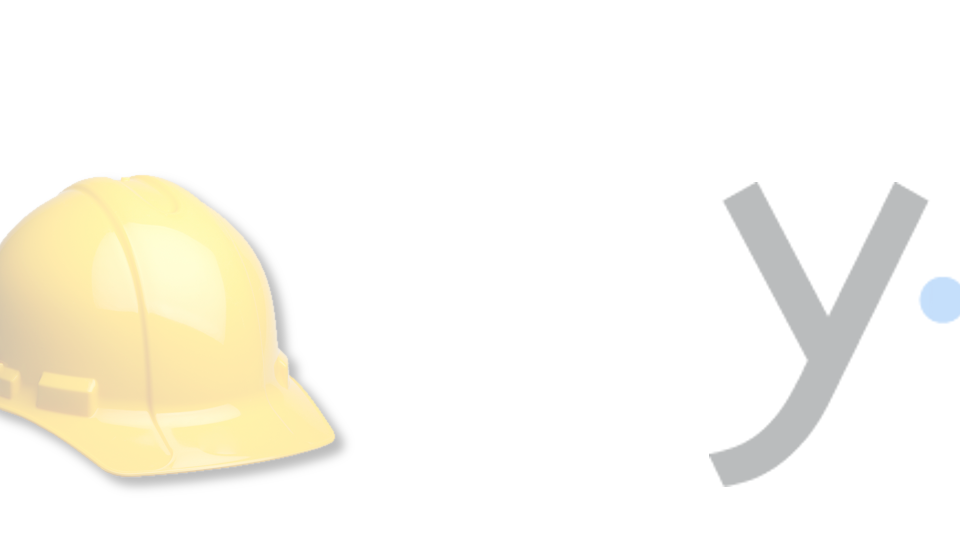
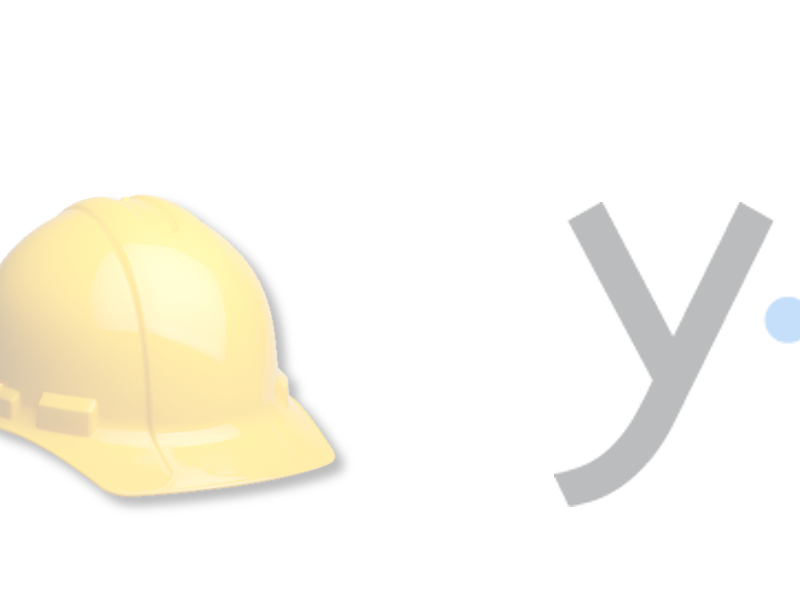
buildroot-yocto-daily: change layout to 4:3

diff --git a/buildroot-yocto-daily/buildroot-yocto-daily.tex b/buildroot-yocto-daily/buildroot-yocto-daily.tex
@@ -1,4 +1,4 @@
-\documentclass[xetex,table,aspectratio=169]{beamer}
+\documentclass[xetex,table,aspectratio=43]{beamer}
 
 \usepackage[autostyle]{csquotes}
 \usepackage{hyperref}
@@ -161,7 +161,7 @@
   \begin{itemize}
   \item Smooth start: find a defconfig for a similar board
     \begin{itemize}
-    \item \texttt{make list-defconfigs \ \ \ \ \ \ \ \ \# minimal booting configs}
+    \item \texttt{make list-defconfigs \ \ \ \# minimal booting configs}
     \item \texttt{make similar\_board\_defconfig}
     \end{itemize}
   \item Or from scratch
@@ -178,13 +178,16 @@
 \end{frame}
 
 \begin{frame}
-  \center\includegraphics[height=1.0\textheight]{images/br-menuconfig-kernel.png}
+  \center\includegraphics[width=1.0\textwidth]{images/br-menuconfig-kernel.png}
 \end{frame}
 
 \bg{yocto}
 \begin{frame}[fragile]{Configure}
   \begin{itemize}
-  \item {\tt . oe-init-build-env \ \ \ \ \ \# creates and enters the build/ dir}
+  \item {\tt . oe-init-build-env}\\
+    \begin{itemize}
+      \item Creates and enters the {\tt build/} dir
+    \end{itemize}
   \item Smooth start: find a defconfig for a similar board
     \begin{itemize}
     \item {\tt ls conf/machine/} in your SoC vendor layer
@@ -218,7 +221,7 @@
 
 
 \begin{frame}{Building items}
-  \center\includegraphics[height=0.7\textheight]{images/dependencies2.pdf}
+  \center\includegraphics[width=0.9\textwidth]{images/dependencies2.pdf}
 \end{frame}
 
 
@@ -229,6 +232,7 @@
     (e.g. binutils, busybox, gcc, libxml2)
   \end{center}
 
+  \footnotesize
   \begin{columns}
     \column{0.5\textwidth}
     \begin{itemize}
@@ -255,8 +259,9 @@
     Each package requires several steps to be built
   \end{center}
 
+  \footnotesize
   \begin{columns}
-    \column{0.5\textwidth}
+    \column{0.52\textwidth}
     \begin{itemize}
     \item No formal name, usually called just {\em steps}
     \item {\tt source}, {\tt extract}, {\tt patch}, {\tt configure},
@@ -267,7 +272,7 @@
     \item {\tt make libxml2-configure host-binutils-build busybox}
     \end{itemize}
 
-    \column{0.5\textwidth}
+    \column{0.52\textwidth}
     \begin{itemize}
     \item Called {\em tasks}\\
       (often prefixed with {\tt do\_})
@@ -285,9 +290,9 @@
 \begin{frame}{Default steps/tasks}
   \begin{columns}
     \column{0.5\textwidth}
-    \center\includegraphics[height=0.95\textheight]{images/br-steps.pdf}
+    \center\includegraphics[height=0.75\textheight]{images/br-steps.pdf}
     \column{0.5\textwidth}
-  \center\includegraphics[height=0.95\textheight]{images/yocto-tasks.pdf}
+    \center\includegraphics[height=0.75\textheight]{images/yocto-tasks.pdf}
   \end{columns}
 \end{frame}
 
@@ -421,7 +426,7 @@
 
 \begin{frame}[fragile]{Buildroot: {\tt BR2\_EXTERNAL}}
   \begin{minted}[frame=single,autogobble,fontsize=\small]{shell-session}
-    $ make BR2_EXTERNAL=~/devel/myext:~/devel/myext2 menuconfig
+    $ make BR2_EXTERNAL=~/myext:~/myext2 menuconfig
   \end{minted}
 
   \begin{itemize}
@@ -650,6 +655,7 @@
 \end{frame}
 
 \begin{frame}{Tuning resource usage}
+  \scriptsize
   \begin{table}
     \begin{tabular}{ll}
       \toprule
@@ -791,7 +797,7 @@
   \item {\tt make graph-depends}
   \item Produces {\tt output/graphs/graph-depends.pdf}
   \end{itemize}
-  \center\includegraphics[height=0.75\textheight]{images/br-graph-depends.pdf}
+  \center\includegraphics[height=0.70\textheight]{images/br-graph-depends.pdf}
 \end{frame}
 
 \begin{frame}{Buildroot: {\tt graph-depends}}
@@ -802,7 +808,7 @@
   \item {\tt BR2\_GRAPH\_DEPS\_OPTS="--exclude=host" make avahi-graph-depends}
   \item Produces {\tt output/graphs/avahi-graph-depends.pdf}
   \end{itemize}
-  \center\includegraphics[height=0.65\textheight]{images/br-avahi-graph-depends.pdf}
+  \center\includegraphics[height=0.55\textheight]{images/br-avahi-graph-depends.pdf}
 \end{frame}
 
 \bg{yocto}
@@ -824,7 +830,7 @@
 
 \bg{br}
 \begin{frame}[fragile]{Buildroot: default output}
-  \begin{minted}[frame=single,autogobble,fontsize=\small]{shell-session}
+  \begin{minted}[frame=single,autogobble,fontsize=\footnotesize]{shell-session}
     $ make
     ...
     >>> host-e2fsprogs 1.44.2 Extracting
@@ -843,7 +849,7 @@
 \end{frame}
 
 \begin{frame}[fragile]{Buildroot: concise output}
-  \begin{minted}[frame=single,autogobble,fontsize=\small]{shell-session}
+  \begin{minted}[frame=single,autogobble,fontsize=\footnotesize]{shell-session}
     $ ./utils/brmake
     ...
     2018-10-06T16:15:58 >>> host-zlib  Patching
@@ -865,7 +871,7 @@
   \item The default output shows the current status, no logs
   \item Hides completed tasks
   \end{itemize}
-  \begin{minted}[frame=single,autogobble,fontsize=\footnotesize]{shell-session}
+  \begin{minted}[frame=single,autogobble,fontsize=\tiny]{shell-session}
     Currently  4 running tasks (119 of 2503)   4% |##                              |
     0: glibc-initial-2.27-r0 do_fetch (pid 5216)  38% |############        | 4.09M/s
     1: glibc-2.27-r0 do_fetch - 4s (pid 5261)
@@ -879,7 +885,7 @@
   \item To see the completed tasks:
   \item {\tt bitbake ... | cat}
   \end{itemize}
-  \begin{minted}[frame=single,autogobble,fontsize=\footnotesize]{shell-session}
+  \begin{minted}[frame=single,autogobble,fontsize=\tiny]{shell-session}
     NOTE: Running task 119 of 2645 (.../binutils/binutils-cross_2.30.bb:do_unpack)
     NOTE: Running task 232 of 2645 (virtual:native:...lzo/lzo_2.10.bb:do_compile)
     NOTE: recipe binutils-cross-arm-2.30-r0: task do_unpack: Started
@@ -898,7 +904,7 @@
   \item For each task a log file is saved
     \begin{itemize}
     \item in {\tt tmp/work/<TUPLE>/<RECIPE>/<VERSION>/temp/log.do\_<TASK>}
-    \item e.g. {\tt tmp/work/x86\_64-linux/gmp-native/6.1.2-r0/temp/log.do\_configure}
+    \item e.g. {\scriptsize\tt tmp/work/x86\_64-linux/gmp-native/6.1.2-r0/temp/log.do\_configure}
     \end{itemize}
   \item Or re-run the failed task with verbose output to see its
     output on your terminal
@@ -1062,6 +1068,7 @@
 \end{frame}
 
 \begin{frame}{Some system settings, side-by-side}
+  \footnotesize
   \begin{table}
     \begin{tabular}{ll}
       \toprule
@@ -1122,7 +1129,7 @@
 \end{frame}
 
 \begin{frame}{Configuring Kconfig-based packages}
-  \small
+  \scriptsize
   \begin{table}
     \begin{tabular}{lll}
       \toprule
@@ -1199,9 +1206,7 @@
 
 \bg{yocto}
 \begin{frame}[fragile]{Yocto: changing task code}
-  \begin{columns}
-    \column{0.5\textwidth}
-    \begin{minted}[autogobble,fontsize=\footnotesize]{bash}
+  \begin{minted}[frame=single,autogobble,fontsize=\footnotesize]{bash}
       do_conf_append() {
           echo CONFIG_ACS >>${D}/.config
       }
@@ -1209,23 +1214,21 @@
       do_install_prepend() {
           mkdir -p ${D}${bindir}
       }
-    \end{minted}
-    \column{0.5\textwidth}
+  \end{minted}
+
+  \begin{itemize}
+  \item Append or prepend code
+  \item Final task code =\\
+    concatenation of prepends + base + appends
     \begin{itemize}
-    \item Append or prepend code
-    \item Final task code = concatenation of prepends + base + appends
-      \begin{itemize}
-      \item Don't mix Bash and Python
-      \end{itemize}
+    \item Don't mix Bash and Python
     \end{itemize}
-  \end{columns}
+  \end{itemize}
 \end{frame}
 
 \bg{br}
 \begin{frame}[fragile]{Buildroot: changing task code}
-  \begin{columns}
-    \column{0.5\textwidth}
-    \begin{minted}[autogobble,fontsize=\footnotesize]{makefile}
+  \begin{minted}[frame=single,autogobble,fontsize=\footnotesize]{makefile}
       define FOO_ENABLE_ACS
           echo CONFIG_ACS >>$(@D)/.config
       endef
@@ -1235,13 +1238,13 @@
           mkdir -p $(TARGET_DIR)/bin
       endef
       FOO_PRE_INSTALL_HOOKS += FOO_CREATE_BIN_DIR
-    \end{minted}
-    \column{0.5\textwidth}
-    \begin{itemize}
-    \item Append or prepend code
-    \item Final Make rule actions = concatenation of pre-hooks + base + post-hooks
-    \end{itemize}
-  \end{columns}
+  \end{minted}
+
+  \begin{itemize}
+  \item Append or prepend code
+  \item Final Make rule actions =\\
+    concatenation of pre-hooks + base + post-hooks
+  \end{itemize}
 \end{frame}
 
 \nobg
